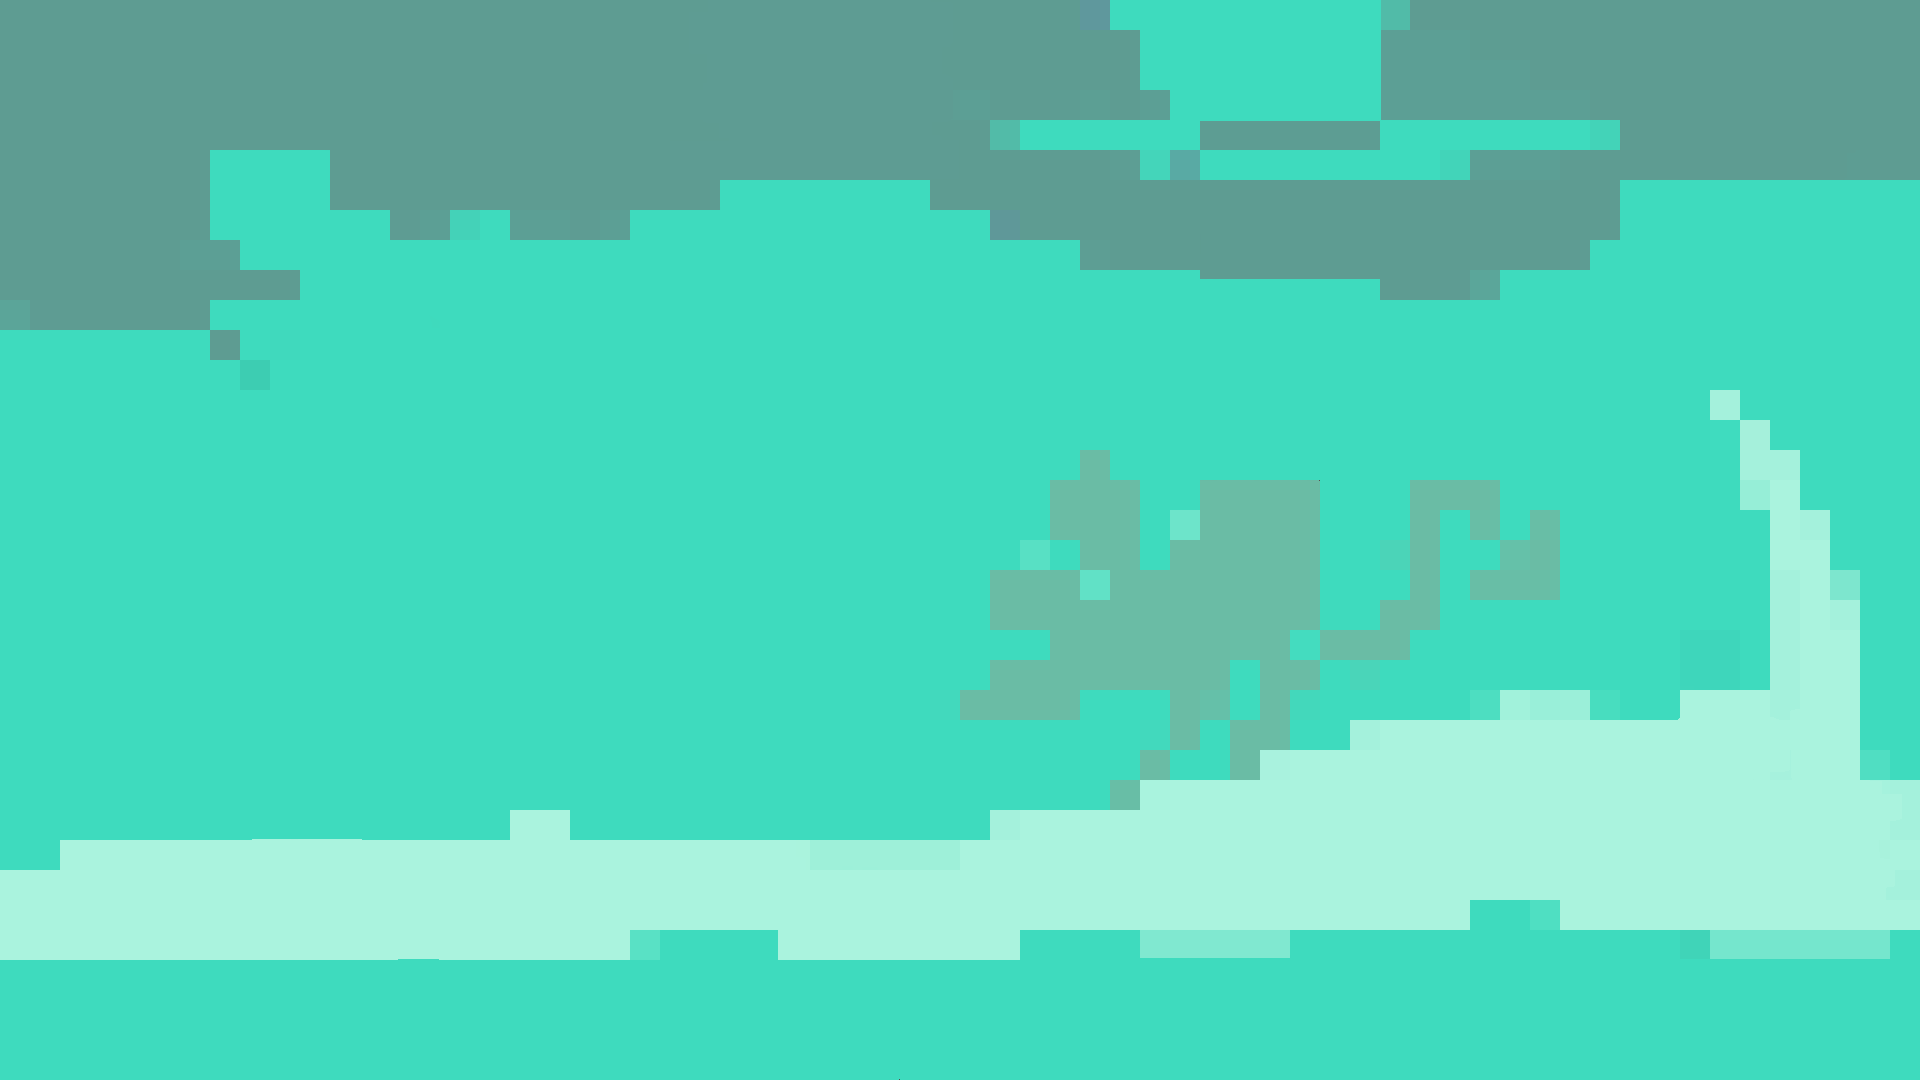
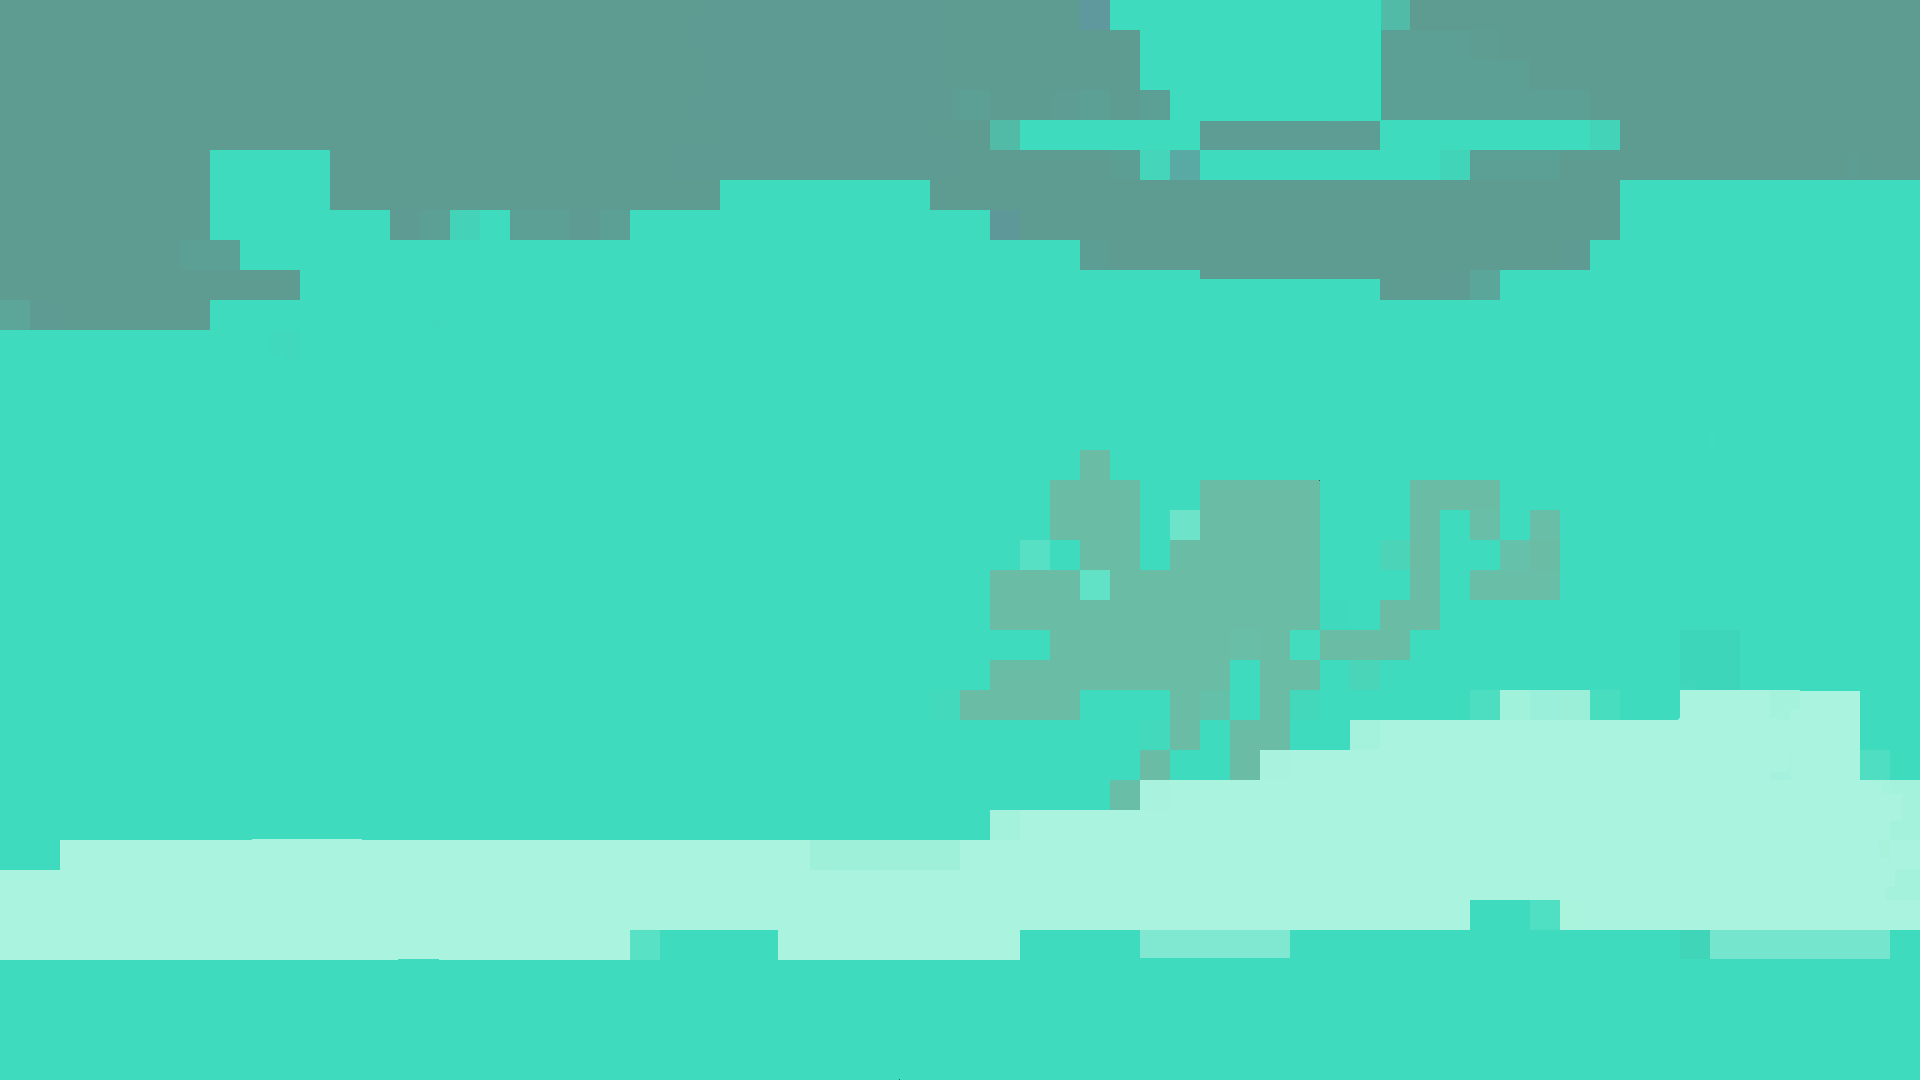
added code for implementing ground asset

Changed region(s): [[0.875, 0.3667, 0.9688, 0.6417], [0.25, 0.7333, 0.3125, 0.7944], [0.0938, 0.3056, 0.125, 0.3361]]

diff --git a/sprites.py b/sprites.py
@@ -1,6 +1,6 @@
 import pygame
 from settings import *
-from random import choice, randint
+
 class BG(pygame.sprite.Sprite): #creates bg object that behaves like pygame sprite
     def __init__(self,groups, scale_factor): #runs setup: which group it belongs to and how big it should be
         super().__init__(groups) #sets up bg object as real pygame sprite and add it to the given groups
@@ -10,13 +10,29 @@ class BG(pygame.sprite.Sprite): #creates bg object that behaves like pygame spri
         full_height = bg_image.get_height() * scale_factor #calculate new height of bg img after scaling
         full_width = bg_image.get_width() * scale_factor #calculate new width of bg img after scaling
 
-        self.image = pygame.transform.scale(bg_image,(full_width, full_height)) #resize bg img to desired height and width and store in sprite's img attribute
+        full_sized_image = pygame.transform.scale(bg_image,(full_width, full_height)) #resize bg img to desired height and width and store in sprite's img attribute
+       
+        self.image = pygame.Surface((full_width * 2,full_height))
+        self.image.blit(full_sized_image, (0,0))
+        self.image.blit(full_sized_image, (full_width,0))
+
         self.rect = self.image.get_rect(topleft = (0,0)) #create rectangle for sprite that dedines its position for human interaction,
         self.pos = pygame.math.Vector2(self.rect.topleft) #stores sprite's position as 2D vector for easier movement and math operations
 
     def update(self, dt): #define update method for sprite to change its state every frame
         self.pos.x -= 300 * dt #moves sprite left at speed of 300 px per second, scaled by time passed in sec since last frame
-        self.rect.x = round(self.pos.x) #updates sprites rectangle position to match Vector2 position, rounding to an integer
-        if self.rect.right <= 0:
+        if self.rect.centerx <= 0:
             self.pos.x = 0
-        self.rect.x = round(self.pos.x)
+        self.rect.x = round(self.pos.x)  #updates sprites rectangle position to match Vector2 position, rounding to an integer
+    
+class Ground(pygame.sprite.Sprite):
+    def __init__(self,groups,scale_factor):
+        super().__init__(groups)
+
+        #image
+        ground_surf = pygame.image.load('../graphics/environment/ground.png').convert_alpha()
+        self.image = pygame.transform.scale(ground_surf, pygame.math.Vector2 (ground_surf.get_size()) * scale_factor)
+        
+        #position
+        self.rect = self.image.get_rect(bottomleft = (0,WINDOW_HEIGHT))
+        self.pos = pygame.math.Vector2(self.rect.topleft)

diff --git a/main.py b/main.py
@@ -1,6 +1,6 @@
 import pygame, sys, time
 from settings import *
-from sprites import BG
+from sprites import BG, Ground
 
 class Game: 
     def __init__(self): #function that runs when new object is created
@@ -22,7 +22,7 @@ class Game:
 
         #sprite setup
         BG(self.all_sprites, self.scale_factor) #make bg sprite, scale it to screen, and add to main sprite group so it appears in game
-
+        Ground(self.all_sprites, self.scale_factor)
     def run(self): #func will run main logic of gamw
         last_time = time.time() #store current time (in seconds) in variable called last_time
         while True: 
